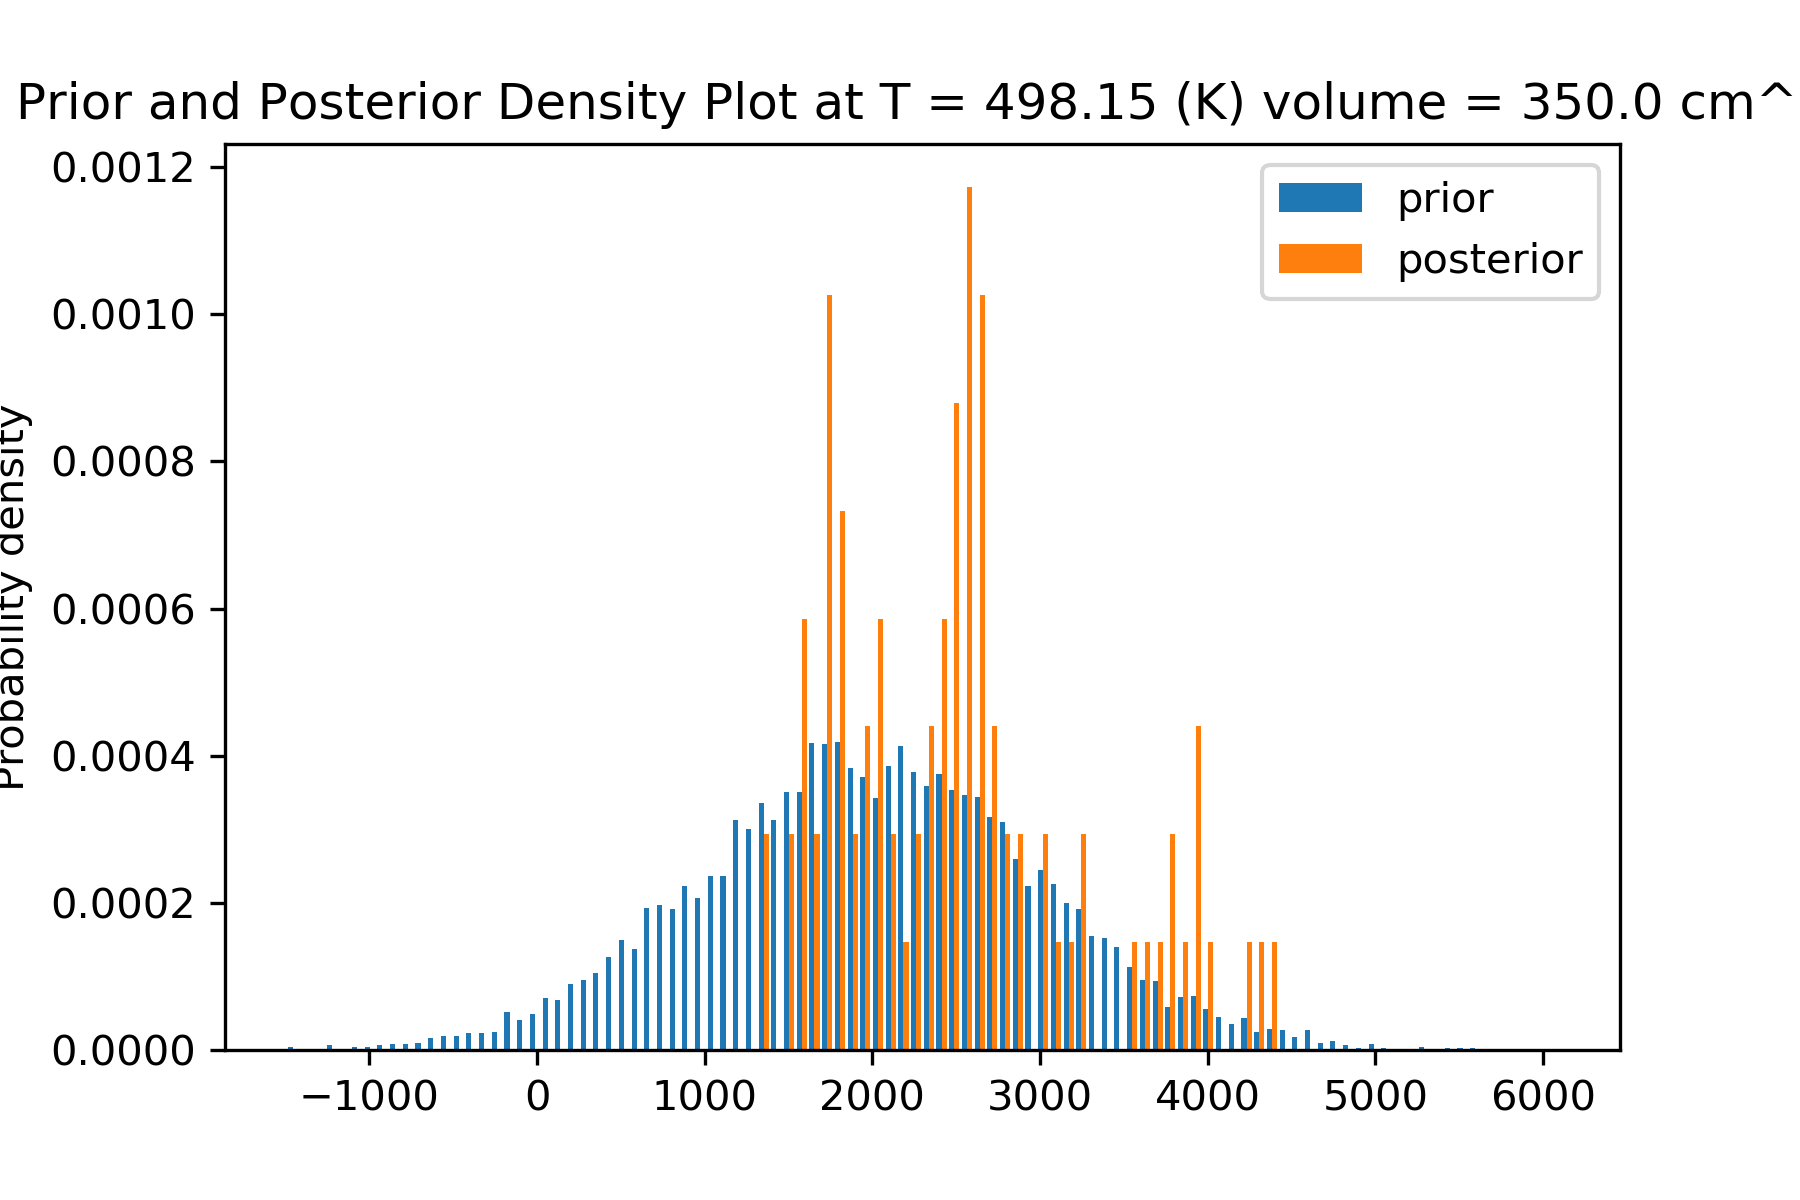
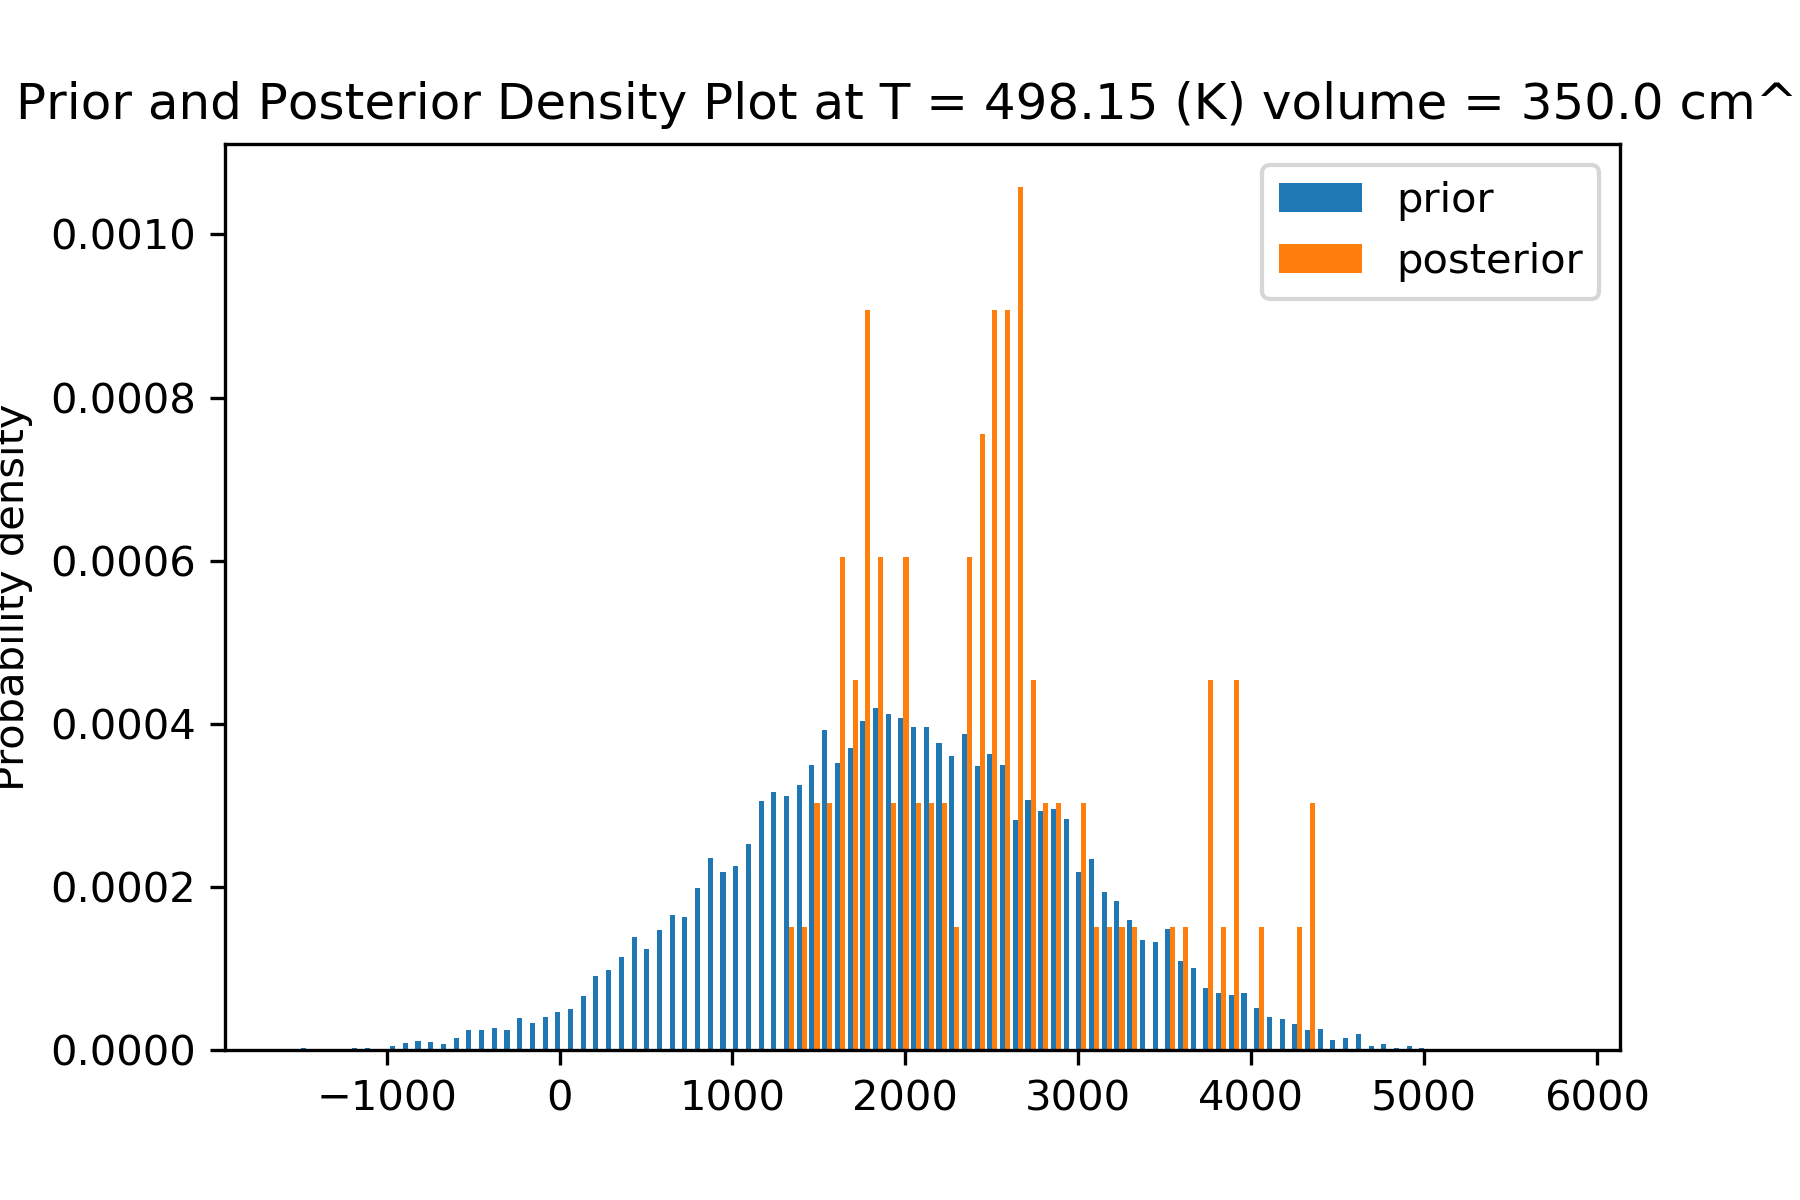
Using log subtraction to reduce numerical errors
Using log subtraction to reduce numerical errors. In Example 12, we see the info_gain is not changed by eye. The distributions are slightly changed by eye, presumably due to reduced numerical errors.

diff --git a/CheKiPEUQ/InverseProblem.py b/CheKiPEUQ/InverseProblem.py
@@ -518,11 +518,11 @@ class parameter_estimation:
         self.post_burn_in_log_likelihoods_vec = log_likelihoods_vec[self.UserInput.parameter_estimation_settings['mcmc_burn_in']:]
         self.post_burn_in_log_priors_vec = log_priors_vec[self.UserInput.parameter_estimation_settings['mcmc_burn_in']:]
         # posterior probabilites are transformed to a standard normal (std=1) for obtaining the evidence:
-        #FIXME: Log was not propagated correctly here. Below line used to be self.evidence = np.mean(self.post_burn_in_posteriors_un_normed_vec)*np.sqrt(2*np.pi*np.std(self.post_burn_in_samples)**2)
-        #So either need to make post_burn_in_posteriors_un_normed_vec again before this step, or need to change below line.
         self.evidence = np.mean(np.exp(self.post_burn_in_log_posteriors_un_normed_vec))/np.linalg.norm(self.post_burn_in_samples)# another variety:*np.sqrt(2*np.pi*np.std(self.post_burn_in_samples)**2)        
         if self.UserInput.parameter_estimation_settings['mcmc_info_gain_cutoff'] == 0:        
-            post_burn_in_log_posteriors_vec = np.log  ( np.exp( self.post_burn_in_log_posteriors_un_normed_vec) /self.evidence)
+            #we have log A, and we want log(A/B).  #log (e^log(A) / B )  = log(A/B).  
+            #But we could also do...  log(A) - log(B) = log(A/B). So changing to that.
+            post_burn_in_log_posteriors_vec = self.post_burn_in_log_posteriors_un_normed_vec - np.log(self.evidence) 
             log_ratios = (post_burn_in_log_posteriors_vec-self.post_burn_in_log_priors_vec) #log10(a/b) = log10(a)-log10(b)
             log_ratios[np.isinf(log_ratios)] = 0
             log_ratios = np.nan_to_num(log_ratios)
